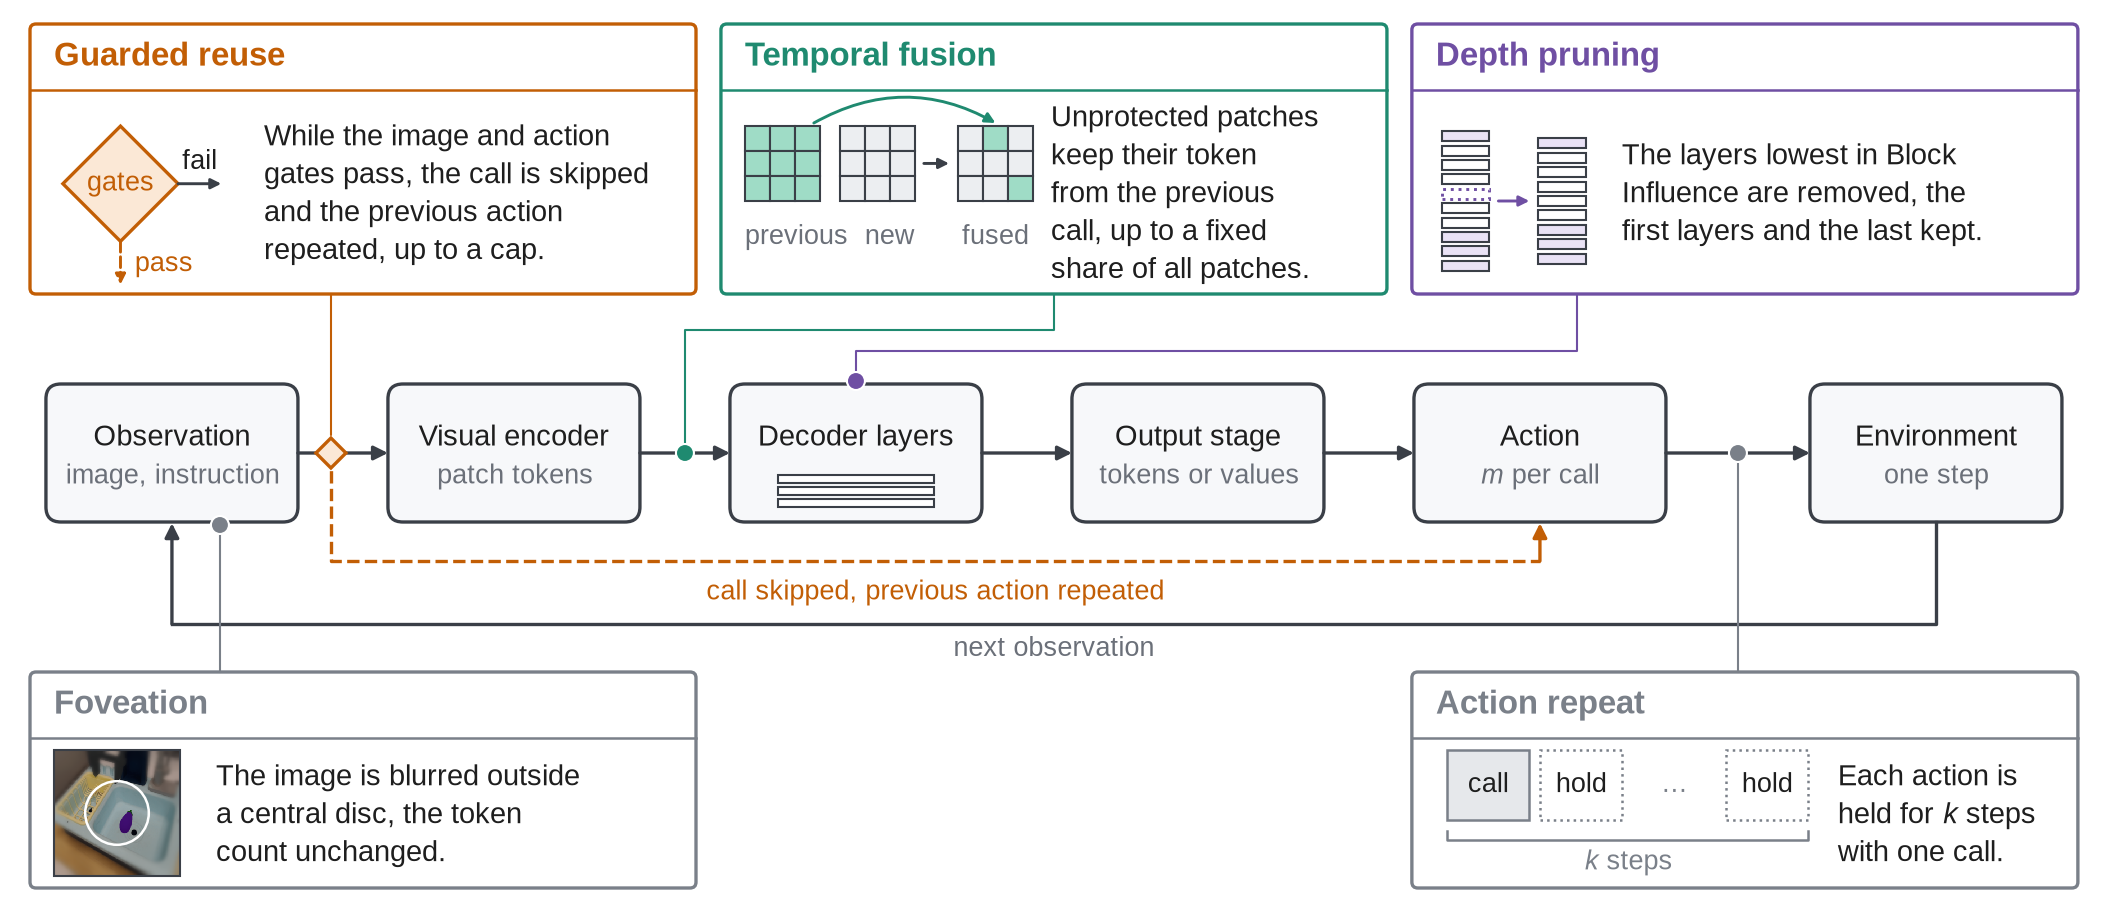
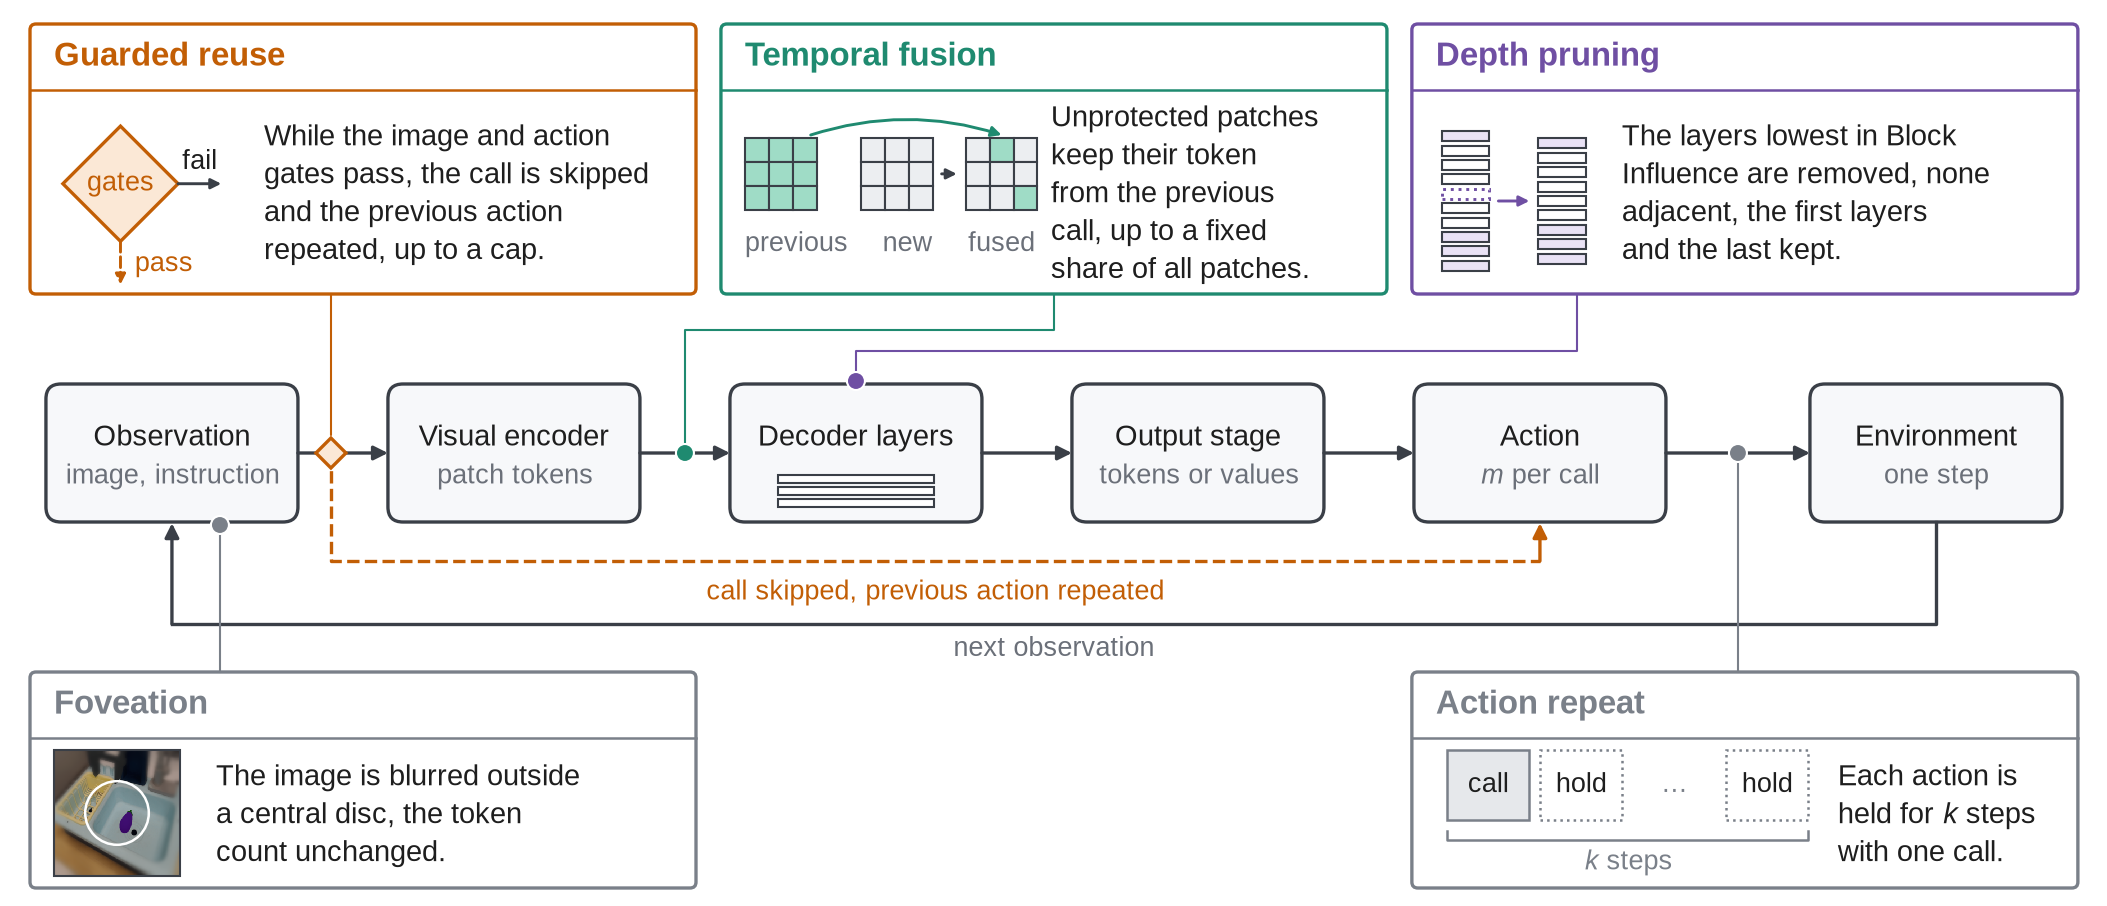
Fig. 1: caption splits candidates and controls by signal use, depth card names the adjacency ban, fusion arc clears the rule, label gaps balanced
Claude-Session: https://claude.ai/code/session_011USoCwMtkSq1wKhwTPjNT9

Changed region(s): [[0.7712, 0.1236, 0.9563, 0.3091], [0.3393, 0.0927, 0.4936, 0.2781]]

diff --git a/experiments/paper/make_overview.py b/experiments/paper/make_overview.py
@@ -645,7 +645,7 @@ def icon_fusion2(ax, x, y, s, color=C_FUSION, fs=6.5, n=3, reused=((0, 1), (2, 2
     per-patch selection, not a sum."""
     g = 0.26 * s               # grid side
     c = g / n
-    sep, arr_w = 0.07 * s, 0.15 * s
+    sep, arr_w = 0.16 * s, 0.12 * s
     xs_ = (x, x + g + sep, x + 2 * g + sep + arr_w)
     y0 = y + 0.24 * s
     fills = (lambda i, j: FUSION_TINT, lambda i, j: GREY_FILL, lambda i, j: FUSION_TINT if (i, j) in reused else GREY_FILL)
@@ -657,7 +657,7 @@ def icon_fusion2(ax, x, y, s, color=C_FUSION, fs=6.5, n=3, reused=((0, 1), (2, 2
     # new tokens go straight into the fused grid, the carried tokens arrive
     # from the previous grid over the top, in the tint they keep
     arrow(ax, xs_[1] + g + 0.03, ym, xs_[2] - 0.03, ym, color=PIPE_EDGE, lw=0.7, ms=5)
-    arrow(ax, xs_[0] + g - 0.02, y0 + g + 0.01, xs_[2] + 1.5 * c, y0 + g + 0.01, color=color, lw=0.7, ms=5, rad=-0.28)
+    arrow(ax, xs_[0] + g - 0.02, y0 + g + 0.01, xs_[2] + 1.5 * c, y0 + g + 0.01, color=color, lw=0.7, ms=5, rad=-0.16)
     ax.text(xs_[0], y + 0.09 * s, "previous", ha="left", va="baseline", fontsize=fs, color=GREY)
     ax.text(xs_[1] + g, y + 0.09 * s, "new", ha="right", va="baseline", fontsize=fs, color=GREY)
     ax.text(xs_[2] + g / 2, y + 0.09 * s, "fused", ha="center", va="baseline", fontsize=fs, color=GREY)
@@ -765,7 +765,7 @@ def candidate_A3(verbose=True):
     # temporal fusion, on the encoder-to-decoder edge
     x = 0.10 + cw + gap
     body = card(x, cy, cw, ch, C_FUSION, "Temporal fusion")
-    icon_fusion2(ax, x + 0.08, cy + 0.08, 0.96, fs=FS_SUB)
+    icon_fusion2(ax, x + 0.08, cy + 0.06, 0.92, fs=FS_SUB)
     sentence(x + 1.10, bm, "Unprotected patches\nkeep their token\nfrom the previous\ncall, up to a fixed\nshare of all patches.", body)
     fx = xs["enc"] + bw + 0.15
     leader([(x + cw / 2, cy), (x + cw / 2, cy - 0.12), (fx, cy - 0.12), (fx, mid + 0.03)], C_FUSION)
@@ -774,7 +774,7 @@ def candidate_A3(verbose=True):
     x = 0.10 + 2 * (cw + gap)
     body = card(x, cy, cw, ch, C_DEPTH, "Depth pruning")
     icon_depth2(ax, x + 0.10, cy + 0.07, 0.48)
-    sentence(x + 0.70, bm, "The layers lowest in Block\nInfluence are removed, the\nfirst layers and the last kept.", body)
+    sentence(x + 0.70, bm, "The layers lowest in Block\nInfluence are removed, none\nadjacent, the first layers\nand the last kept.", body)
     dx = xs["dec"] + bw / 2
     leader([(x + 0.55, cy), (x + 0.55, cy - 0.19), (dx, cy - 0.19), (dx, py + ph + 0.04)], C_DEPTH)
     dot(dx, py + ph + 0.01, C_DEPTH)

diff --git a/experiments/paper/figoverview.tex b/experiments/paper/figoverview.tex
@@ -8,9 +8,10 @@
   \includegraphics[width=\textwidth]{figures/overview_A3.pdf}
   \caption{Where each intervention enters the control loop of a frozen VLA
   policy. Candidates (top) act on the model call, the visual tokens, and the
-  decoder depth. Controls (bottom) act on the input image and on how long
-  each action is held. The dots and the diamond mark the points of effect,
-  and the dashed path marks the skipped call. Every intervention is compared with the
-  dense reference on matched episodes.}
+  decoder depth, each where a signal admits it. Controls (bottom) use no
+  signal, one blurring the input image and the other holding each action for
+  a fixed number of steps. The dots and the diamond mark the points of effect,
+  and the dashed path marks the skipped call. Every intervention is compared
+  with the dense reference on matched episodes.}
   \label{fig:overview}
 \end{figure*}
